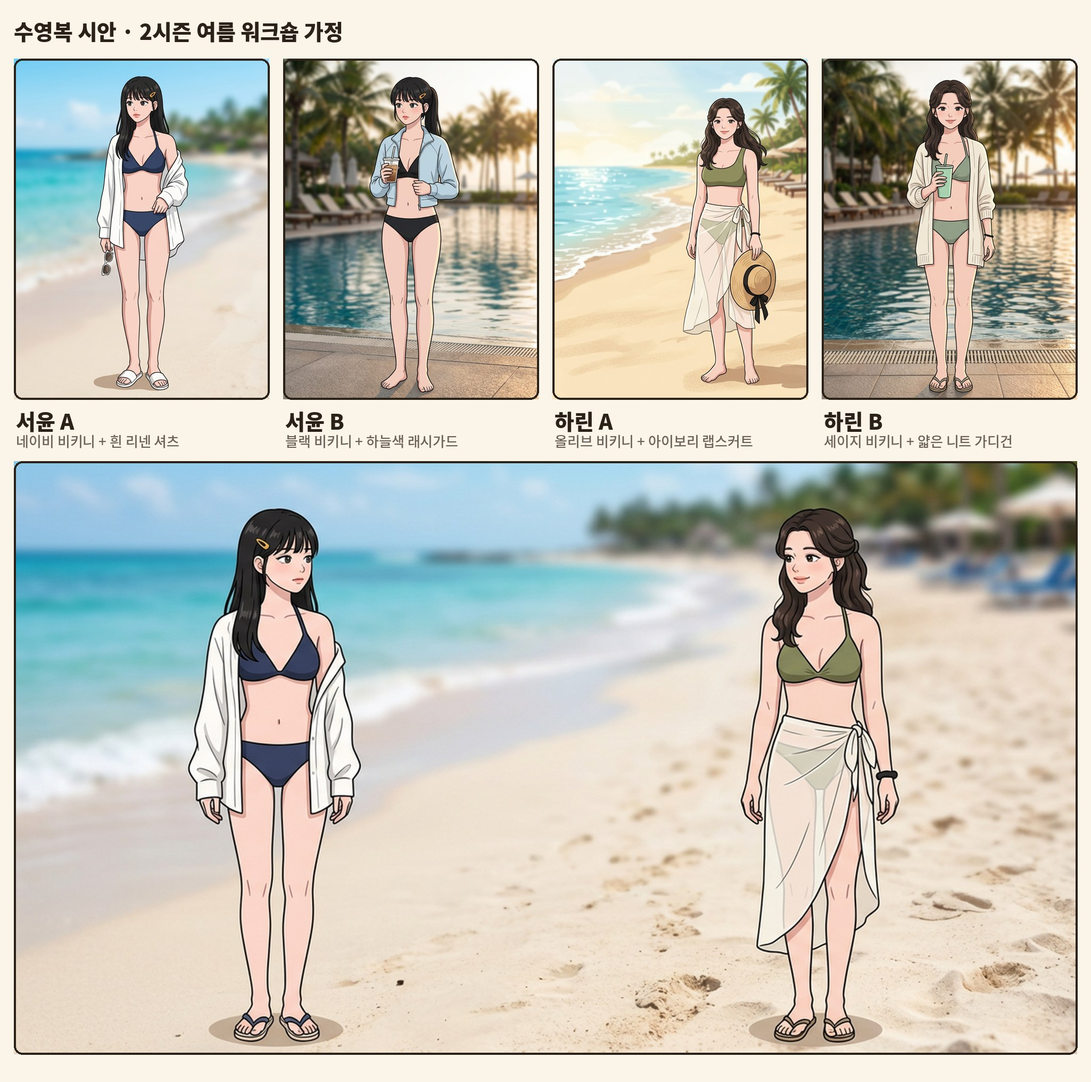
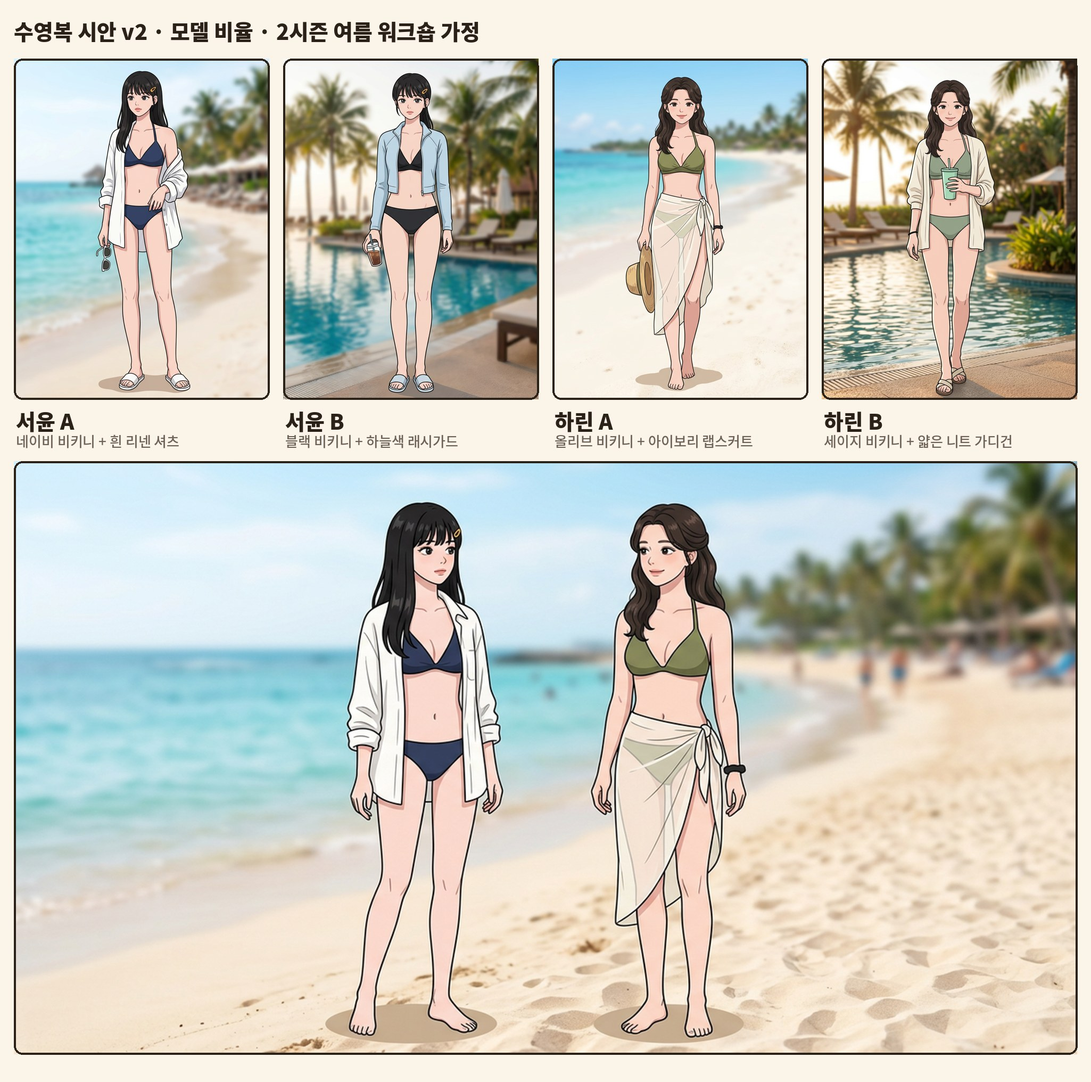
웹툰 시리즈: 수영복 시안 v2(모델 비율), v1은 sw_v1에 보관
Claude-Session: https://claude.ai/code/session_01WWWAGrfkk8c3HdrCL88o6T

diff --git a/char3/cast2.py b/char3/cast2.py
@@ -121,7 +121,10 @@ CUTS['lineup'] = (R['minjun'][:1] + R['seoyun'][:1] + R['doyun'] + R['harin'] + 
 # ── 수영복 시안(2026-11-12 운영자 "여자 캐릭들의 비키니 스타일도") : 2시즌 여름 워크숍 가정 ──
 SWIM = ('Use the reference images ONLY for the character design (same face and hair). Full-body, standing, the character alone, '
         'a natural relaxed everyday pose (no posing for the camera, no sexualized pose, no close-ups of the body). She is clearly an adult woman in her twenties '
-        'with adult proportions and a mature face. Tasteful, wholesome summer fashion-illustration feel. ' + STY)
+        'with adult proportions and a mature face. Tasteful, wholesome summer fashion-illustration feel. ' + STY +
+        'BODY: elegant fashion-model proportions — tall, about 8.5 heads tall, small face, long slender legs, slim waist, toned healthy figure with '
+        'natural feminine adult curves, good straight posture, graceful neck and shoulders. Confident relaxed fashion-editorial stance '
+        '(weight on one leg, shoulders relaxed), like a summer swimwear catalogue illustration — stylish, not provocative. ')
 BEACH = 'Background: a softly blurred, realistic, photographic-looking resort beach on a bright summer day, turquoise sea. '
 POOL = 'Background: a softly blurred, realistic, photographic-looking hotel resort pool with palm trees, late afternoon light. '
 SEO_SW = SEOYUN.replace('pale sky-blue cardigan over a white blouse, lanyard with a blank ID card. ', '')
